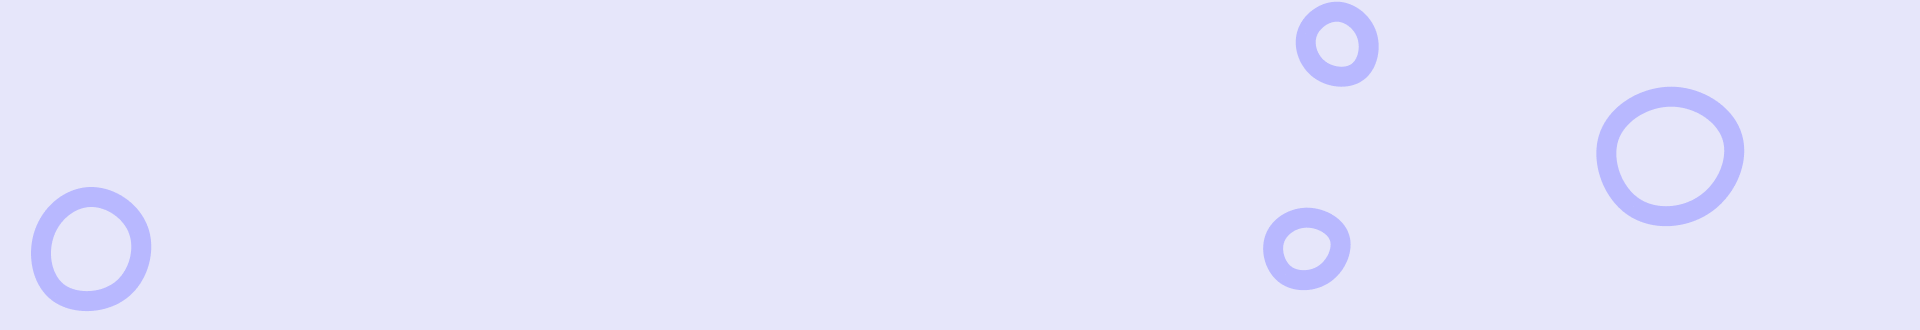
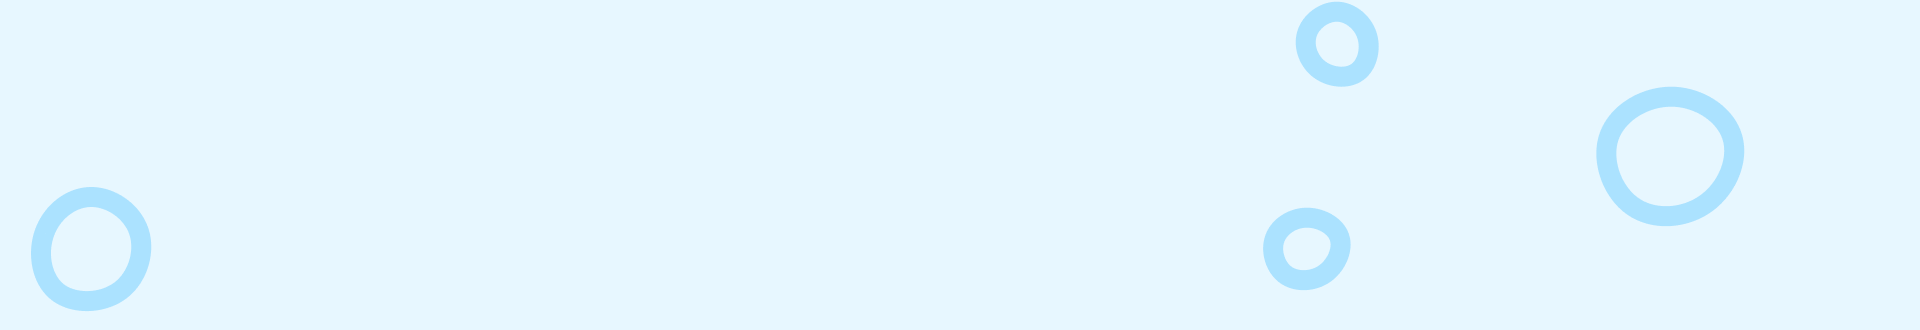
Whyme page is done

diff --git a/src/components/Whyme.vue b/src/components/Whyme.vue
@@ -1,0 +1,136 @@
+<template>
+  <div class="Whyme">
+    <div class="left">
+      <div>Почему тебе стоит выбрать меня?</div>
+
+      <ol>
+        <li>
+          <span
+            >1
+            <div></div>
+          </span>
+          <span> <div>Сдал ЕГЭ на 93 балла самостоятельно</div></span>
+        </li>
+        <li>
+          <span
+            >2
+            <div></div></span
+          ><span><div>Найду подход к любому ученику</div></span>
+        </li>
+        <li>
+          <span
+            >3
+            <div></div></span
+          ><span
+            ><div>
+              Дам уникальные шаблоны для решения задач с программированием
+            </div></span
+          >
+        </li>
+        <li>
+          <span
+            >4
+            <div></div
+          ></span>
+          <span
+            ><div>
+              Изобрел работающую методику для обучения учеников с любым уровнем
+              знаний
+            </div></span
+          >
+        </li>
+      </ol>
+    </div>
+    <div class="right">
+      <img :src="WhymeImage" />
+    </div>
+  </div>
+</template>
+
+<script lang="ts">
+import { defineComponent } from "vue";
+import WhymeImage from "@/assets/Backgrounds/Whyme.png";
+
+export default defineComponent({
+  name: "Whyme",
+
+  setup() {
+    return { WhymeImage };
+  },
+});
+</script>
+
+<style lang="scss" scoped>
+.Whyme {
+  width: 100%;
+  height: 100vh;
+  display: flex;
+  justify-content: space-between;
+  padding: 10% 20%;
+}
+
+.left {
+  & > div:first-of-type {
+    font-size: 30px;
+    font-weight: 600;
+    width: max-content;
+  }
+
+  ol {
+    list-style-type: none;
+    padding: 10% 10%;
+  }
+
+  li {
+    display: flex;
+    height: auto;
+    font-size: 128px;
+    height: 1em;
+
+    span:last-of-type {
+      width: 100%;
+      font-size: 20px;
+      position: relative;
+      & > div {
+        position: absolute;
+        top: 50%;
+        width: 100%;
+      }
+    }
+
+    span:first-of-type {
+      text-align: left;
+      width: 1em;
+
+      font-family: "Montserrat", sans-serif;
+      font-weight: 700;
+      color: white;
+      text-shadow: -1px -1px 0 #000, 1px -1px 0 #000, -1px 1px 0 #000,
+        1px 1px 0 #000;
+
+      position: relative;
+
+      & > div {
+        position: absolute;
+        left: 0;
+        top: 50%;
+        transform: translate(0, -30%);
+        width: 70%;
+        border-radius: 50%;
+        background-color: #abe2ffad;
+
+        &::after {
+          content: "";
+          padding-bottom: 100%;
+          display: block;
+        }
+      }
+    }
+  }
+}
+
+.right {
+  display: flex;
+  align-items: center;
+}
+</style>

diff --git a/src/App.vue b/src/App.vue
@@ -1,4 +1,4 @@
-<template><ContactNavBar /><MainProfile /><Introduction /></template>
+<template><ContactNavBar /><MainProfile /><Introduction /><Whyme /></template>
 
 <script lang="ts">
 import { defineComponent } from "vue";
@@ -6,6 +6,7 @@ import ContactNavBar from "./components/ContactNavBar.vue";
 import MainProfile from "./components/MainProfile.vue";
 import TestComponent from "./components/TestComponent.vue";
 import Introduction from "./components/Introduction.vue";
+import Whyme from "./components/Whyme.vue";
 
 export default defineComponent({
   name: "App",
@@ -13,6 +14,7 @@ export default defineComponent({
     ContactNavBar,
     MainProfile,
     Introduction,
+    Whyme,
     TestComponent,
   },
 });

diff --git a/src/scss/_variables.scss b/src/scss/_variables.scss
@@ -1,6 +1,6 @@
-$main_color: #e6e6fa;
-$nav_default: #737272;
+$main_color: #e8f7ff;
+$nav_default: #020e3aba;
 $button_default: #7bb0ff;
 $button_hover: #70a0e9;
-$intensive: #5196ff;
+$intensive: #4b93ff;
 $font_default: #020e3a;

diff --git a/src/components/Advantages.vue b/src/components/Advantages.vue
@@ -1,0 +1,13 @@
+<template>
+  <div></div>
+</template>
+
+<script lang="ts">
+import { defineComponent } from "vue";
+
+export default defineComponent({
+  nam,
+});
+</script>
+
+<style lang="scss" scoped></style>

diff --git a/src/components/ContactNavBar.vue b/src/components/ContactNavBar.vue
@@ -92,6 +92,7 @@ header {
     display: inherit;
     align-items: center;
     gap: 5px;
+    color: $intensive;
 
     & > img {
       width: 20px;
